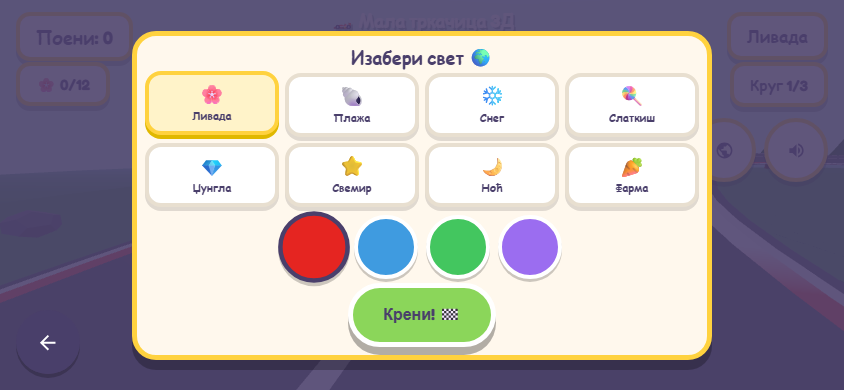
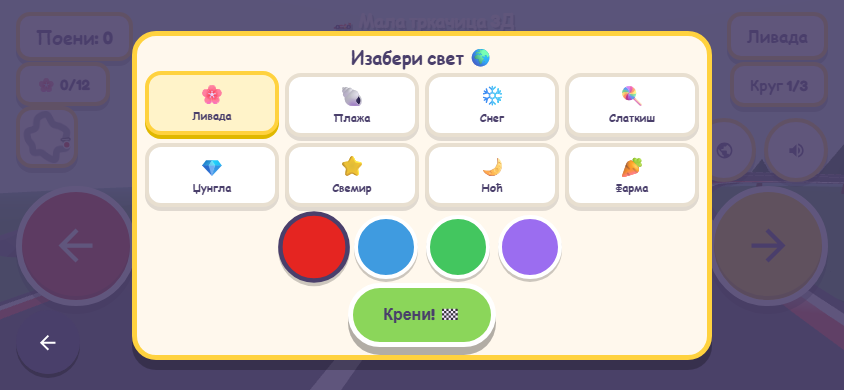
task 249: racing3d chase-cam lag cancel + look-up + HUD (minimap under Poeni, buttons to edges)
Camera position lerp trailed the moving kart by ~speed/4; added a speed/4 feed-forward to the back-distance term so the kart stays close while moving (844x390 dist 15.2 -> ~8.0 at speed 33). Look target moved further ahead (10->11) and higher (1.5->2.8, xcamPull) so it pitches up and shows more road. Minimap moved from top-centre to the top-left column under the score pills; steering buttons pushed to the screen edges. 3 new mutation-negative-tested racing3d_smoke guards (39/39). manifest 2.0.2 -> 2.0.3 for device refresh; offline + docs regenerated; racing3d + parent review shots refreshed.

diff --git a/tools/racing3d_smoke.js b/tools/racing3d_smoke.js
@@ -197,6 +197,26 @@ const sleep = ms => new Promise(r => setTimeout(r, ms));
     check('short landscape (844x390): world + music buttons are the topmost element (not covered by a steering zone)',
         R.world === 'r3d-world-btn' && R.music === 'r3d-music-btn', reach);
 
+    // task 249: the minimap was centred at the top and covered the road right where
+    // the kart drives; it now lives in the top-left column under the score pills. The
+    // steering buttons were centred in each half (barely a quarter-width from the
+    // edge), which read as "too close to the kart"; they are pushed to the edges.
+    // Assert the geometry — a click-driven smoke passes with any of this still wrong.
+    const hud = JSON.parse(await h.evalv(`JSON.stringify((() => {
+        const r = id => { const b = document.getElementById(id).getBoundingClientRect();
+            return { left: b.left, right: b.right, top: b.top, bottom: b.bottom,
+                     cx: (b.left + b.right) / 2, cy: (b.top + b.bottom) / 2 }; };
+        return { w: window.innerWidth, h: window.innerHeight,
+                 map: r('r3d-map'), left: r('r3d-left'), right: r('r3d-right') };
+    })())`));
+    check('short landscape: minimap sits in the top-left (clear of the road view)',
+        hud.map.right < hud.w * 0.33 && hud.map.top > 0 && hud.map.top < 160,
+        JSON.stringify(hud.map) + ' w=' + hud.w);
+    check('short landscape: steering buttons are pushed to the screen edges (off the kart)',
+        hud.left.cx < hud.w * 0.2 && hud.right.cx > hud.w * 0.8 &&
+        hud.left.left >= 0 && hud.right.right <= hud.w && hud.left.cy > hud.map.bottom,
+        JSON.stringify({ left: hud.left, right: hud.right, mapBottom: hud.map.bottom }));
+
     // task 247: on a phone in landscape (short viewport) a fixed-distance chase cam
     // made the kart read as "too far away", so the rig now pulls in with the short
     // dimension (camPull = clamp(innerHeight/700, 0.6, 1)). Read the pull and the
@@ -236,6 +256,25 @@ const sleep = ms => new Promise(r => setTimeout(r, ms));
         if (!driveWait) await sleep(200);
     }
     check('countdown finished -> driving mode', driveWait === true);
+
+    // task 249: the chase cam's position lerp trailed the moving kart by ~speed/4
+    // world units, so the kart only looked close at the instant it slowed (user: "at
+    // the slowest moment it is actually in good view ... aiming to that"). The target
+    // now carries a speed/4 feed-forward that cancels the lag, so the camera keeps the
+    // same distance at speed as at rest. Drive up to speed on a phone viewport and
+    // assert the camera stays close; without the feed-forward the distance ~doubles.
+    await h.c.send('Emulation.setDeviceMetricsOverride', { width: 844, height: 390, deviceScaleFactor: 1, mobile: false });
+    await sleep(200);
+    const camMove = JSON.parse(await h.evalv(`(function(){
+        const r3d = window.__r3d; r3d.haltLoop(true);
+        for (let i = 0; i < 600 && r3d.speed() < 25; i++) r3d.step(1/60);
+        const sp = r3d.speed(); const c = r3d.cameraInfo(); r3d.haltLoop(false);
+        return JSON.stringify({ sp: +sp.toFixed(1), dist: c.dist });
+    })()`));
+    check('chase cam cancels its speed lag (kart stays close once moving at speed)',
+        camMove.sp >= 25 && camMove.dist < 9 && camMove.dist > 3, JSON.stringify(camMove));
+    await h.c.send('Emulation.setDeviceMetricsOverride', { width: 1100, height: 700, deviceScaleFactor: 1, mobile: false });
+    await sleep(200);
 
     // Frame-rate independent by construction. This used to hold the key and
     // `await sleep(N)`, which only works if a frame costs less than the 50ms dt

diff --git a/docs/pages/racing3d.html b/docs/pages/racing3d.html
@@ -45,8 +45,10 @@
         #r3d-world { top: 12px; right: 16px; font-size: 17px; }
         #r3d-round { top: 62px; right: 16px; font-size: 15px; }
         /* --- Race-track mini-map (loop + live running position) --- */
+        /* Sits in the top-left column under the «Поени»/«🌸» pills, NOT centred —
+           centred it covered the road right where the kart drives (task 249). */
         #r3d-map {
-            position: absolute; top: 10vmin; left: 50%; transform: translateX(-50%);
+            position: absolute; top: 112px; left: 16px;
             z-index: 10; pointer-events: none; width: 21vmin; height: 21vmin;
             max-width: 230px; max-height: 230px;
             background: #FFF8ED; border-radius: 16px; border: 4px solid #FFD23F;
@@ -82,8 +84,10 @@
             display: flex; align-items: center; justify-content: center;
             touch-action: none;
         }
-        #r3d-zone-left { left: 0; }
-        #r3d-zone-right { right: 0; }
+        /* Push the steering buttons out toward the screen edges so they do not sit
+           under the kart (task 249); the padding keeps them off the bezel. */
+        #r3d-zone-left { left: 0; justify-content: flex-start; padding-left: 4vmin; }
+        #r3d-zone-right { right: 0; justify-content: flex-end; padding-right: 4vmin; }
         .r3d-zone .r3d-btn {
             width: 120px; height: 120px; border-radius: 50%;
             border: 6px solid #fff; display: flex; align-items: center; justify-content: center;
@@ -201,6 +205,8 @@
             #r3d-kart-row { gap: 8px; margin-bottom: 4px; }
             .r3d-kart-swatch { width: 40px; height: 40px; }
             .r3d-restart-btn { padding: 10px 30px; font-size: 16px; line-height: 1.1; }
+            /* keep the minimap above the (edge-pushed) steering button on a 390h phone */
+            #r3d-map { top: 106px; width: 16vmin; height: 16vmin; }
         }
     </style>
 </head>

diff --git a/game/pages/racing3d.html b/game/pages/racing3d.html
@@ -45,8 +45,10 @@
         #r3d-world { top: 12px; right: 16px; font-size: 17px; }
         #r3d-round { top: 62px; right: 16px; font-size: 15px; }
         /* --- Race-track mini-map (loop + live running position) --- */
+        /* Sits in the top-left column under the «Поени»/«🌸» pills, NOT centred —
+           centred it covered the road right where the kart drives (task 249). */
         #r3d-map {
-            position: absolute; top: 10vmin; left: 50%; transform: translateX(-50%);
+            position: absolute; top: 112px; left: 16px;
             z-index: 10; pointer-events: none; width: 21vmin; height: 21vmin;
             max-width: 230px; max-height: 230px;
             background: #FFF8ED; border-radius: 16px; border: 4px solid #FFD23F;
@@ -82,8 +84,10 @@
             display: flex; align-items: center; justify-content: center;
             touch-action: none;
         }
-        #r3d-zone-left { left: 0; }
-        #r3d-zone-right { right: 0; }
+        /* Push the steering buttons out toward the screen edges so they do not sit
+           under the kart (task 249); the padding keeps them off the bezel. */
+        #r3d-zone-left { left: 0; justify-content: flex-start; padding-left: 4vmin; }
+        #r3d-zone-right { right: 0; justify-content: flex-end; padding-right: 4vmin; }
         .r3d-zone .r3d-btn {
             width: 120px; height: 120px; border-radius: 50%;
             border: 6px solid #fff; display: flex; align-items: center; justify-content: center;
@@ -201,6 +205,8 @@
             #r3d-kart-row { gap: 8px; margin-bottom: 4px; }
             .r3d-kart-swatch { width: 40px; height: 40px; }
             .r3d-restart-btn { padding: 10px 30px; font-size: 16px; line-height: 1.1; }
+            /* keep the minimap above the (edge-pushed) steering button on a 390h phone */
+            #r3d-map { top: 106px; width: 16vmin; height: 16vmin; }
         }
     </style>
 </head>

diff --git a/CONTRIBUTING.md b/CONTRIBUTING.md
@@ -62,7 +62,7 @@ Consequences for contributors:
 
 ## Task lifecycle
 
-- **Task 248 (Racing `racing3d` chase-camera tuning, increment 1 — user: "a bit more closer and the camera a bit more higher looking down, not too much"; pull-in is now steeper than 1:1 below a 700px-tall viewport, `camPull = clamp(1 - 1.1*(1 - innerHeight/700), 0.5, 1)` (844×390: 0.6→0.513), and the vertical scale is decoupled as `camRise = 0.35 + 0.65*camPull` so the camera stays high (height 3.6→4.10) and looks down more, heights ≥700 unchanged; the 247 smoke check relaxed to a range + ordering + `short.target < 0.8×tall.target`; `manifest.json` 2.0.1→2.0.2 so the phone refreshes, `parent_smoke` 44/44, `check_fast` 7/7, `racing3d_phone-landscape` + 4 `parent_*` shots refreshed) is DONE (2026-10-13); **Task 247 (Racing `racing3d` chase camera pulled in on a short landscape viewport — the chase cam was a fixed offset (`-12` behind / `6.0` up / `+10` look-ahead), so a phone in landscape (≈844×390) rendered the kart small/far; now scaled by `camPull = clamp(innerHeight/700, 0.6, 1)` applied to the back distance, up height, min-y clamp and look-ahead/height (steer sway unscaled), heights ≥700 unchanged, a 390-high landscape clamps to 0.6 → target distance 13.4→≈8.0; new `cameraInfo()` hook + a `racing3d_smoke` check reading the camera target distance one frame apart at 844×390 vs 1100×700 asserting pull 0.6/1 and shortTarget < 0.75×tallTarget, mutation-negative-tested) is DONE (2026-10-13); task 246 (Offline delivery — app-version bump `manifest.json` 2.0.0→2.0.1 so installed devices auto-refresh: the SW registers as `sw.js?v=<version>` and caches `petrin-v<version>`, so a bump installs a fresh worker and re-caches on next launch, closing the task-244/245 device-freshness gap; no tool hard-codes the version; `parent_smoke` 44/44 shows `2.0.1`, `sw_update_smoke` green, `check_fast` 7/7, `parent_*` review shots refreshed; also formally closed task 100, the racing visual-style umbrella) is DONE (2026-10-13); task 245 (Racing `racing3d` kart heading skew — `kart.lookAt(p.clone().add(tan))` aimed 1 unit ahead on the centreline while the kart sat at `p + right*lateral`, so the heading skewed toward the road centre by up to ~84° as the car slid and never realigned once released, since the lane offset persists; now aims from the kart's own position, `kart.lookAt(kart.position.clone().add(tan))`; new `kartInfo()` probe hook + a `racing3d_smoke` check that the heading stays road-aligned at every lane offset, mutation-negative-tested) is DONE (2026-10-13); task 244 (Racing `racing3d` follow-up — hover feel: `HOVER.yawMax` 0→0.18 so the whole car leans its nose slightly into the glide (rear-axle pivot, no tail-spin) and straightens on release; colour-coded finish buttons «Следећи свет» green / «Играј поново» yellow / «Изабери свет» blue + green «Крени!»; one-tap start after the scene-rebuild reload via a one-shot `sessionStorage` autostart flag) is DONE (2026-10-13); task 243 (Offline download self-heal — the parent «Преузми за офлајн рад» progress bar froze mid-run because `sw.js` ran `cacheAllAssets`/`checkForUpdates` without `event.waitUntil`, so the browser could reap the worker; now both are wrapped, a `cacheInFlight` guard prevents a duplicate run, and a parent-side stall watchdog re-issues `cacheAll` when no progress arrives for 30 s) is DONE (2026-10-13); task 242 (Racing `racing3d` hovercraft steering — whole car glides sideways along the road, no nose yaw into the turn; new tunable `HOVER` block (`yawMax:0`, `bankMax:0.12`, slow reduced-motion-suppressed hover-float bob); `racing3d_smoke` updated to the new invariants, full WebGL race battery 33/33; byte-identical review shots) is DONE (2026-10-13); task 241 (CI: fix the two Extended/schedule `play_matrix` failures — `animal_counting` portrait back button covered by the counting stage; `rhythm` favicon 404) is DONE (2026-10-13); task 240 (Visual/UX V23 — Final visual QA baseline: regenerate the full screenshot battery, inspect all four viewports and state coverage, update TOC + provenance, review drift, full smoke + accessibility + offline gates, document intentional differences, spec §41) is DONE (2026-10-12); task 239 (Visual/UX V22 — Icon system pass: one coherent icon family, canonical `arrow_back`, no mixing unrelated icon styles in one shell, spec §40) is DONE (2026-10-12); task 238 (Visual/UX V21 — Semantic motion pass: classify every animation and delete the decorative motion that fails the spec §39 tests) is DONE (2026-10-12); task 237 (Visual/UX V20 — Hub vertical rhythm + activity-cluster size, spec §38) is DONE (2026-10-12); task 236 (Visual/UX V19 — Parent visual system: grouped cards, readable labels, progress summaries, expandable details, restrained colour, spec §37/§43) is DONE (2026-10-11); task 235 (Visual/UX V18 — Phonics letter glow + speaker cue + choice object highlight + immediate success feedback, spec §36/§42.15) is DONE (2026-10-11); task 234 (Visual/UX V17 — Shapes play mat + material + selection, spec §35/§42.19) is DONE (2026-10-11); task 233 (Visual/UX V16 — Sequencing gentle story tray, spec §34/§42.18) is DONE (2026-10-11); task 232 (Visual/UX V15 — Sorting material upgrade, spec §33/§42.20) is DONE (2026-10-11); task 231 (Visual/UX V14 — Coloring header + Piano shell geometry, spec §32/§42.6/§42.16) is DONE (2026-10-11); task 230 (Visual/UX V13 — Classroom hierarchy, spec §31/§42.5) is DONE (2026-10-11); task 229 (Visual/UX V12 — Animal Memory card refinement, spec §30/§42.3) is DONE (2026-10-10); task 228 (Visual/UX V11 — counting refinement) is DONE (2026-10-10); task 227 (Visual/UX V10 — Rhythm pads as drums) is DONE (2026-10-10); task 226 (Visual/UX V9 — Maze cozy-garden elevation) is DONE (2026-10-10); task 225 (Visual/UX V8.1 — animal content composition, "V8 Animals") is DONE (2026-10-10); task 224 (Visual/UX V7.1 — tactile component layer + `.ps-back` adoption) is DONE (2026-10-10); task 223 (Visual/UX V6.2 — apply the Petrin Glow to the six attention states) is DONE (2026-10-09); task 222 (Visual/UX V6.1 — Petrin Glow) is DONE (2026-10-09); task 221 (Visual/UX V5.1 — learning-stage grammar) is DONE (2026-10-09); task 220 (Visual/UX V4.1 — Adventure HUD unification) is DONE (2026-10-09); task 219 (Visual/UX V3.2 — 4 short-landscape FAIL fixes, audit at 0 FAIL) is DONE (2026-10-09); task 218 (terminal plan-status line `tools/plan_progress.js`) is DONE (2026-10-09); task 217 (Visual/UX V3.1 — 844×390 short-landscape audit) is DONE (2026-10-09); task 216 (V0–V2) is DONE (2026-10-08).**
+- **Task 249 (Racing `racing3d` camera + HUD polish, increment 2 — user play-test of 248: position "better now", but "the camera needs to look more up … too much focused on the car", "the minimap should be under the «Поени» counter so it is not blocking the view of the road", buttons "too close to the car… more on the side"; (1) the camera-*position* lerp trailed the moving kart by ≈`speed/4` world units so the kart looked close only at the instant it slowed — the target now carries a feed-forward `-12*camPull + speed/4`, dropping the 844×390 camera↔kart distance 15.2→≈8.0 at speed ≈33; (2) look target moved further ahead (10→11) and higher (1.5→2.8, ×camPull) so the camera pitches up and shows more road; (3) `#r3d-map` moved from top-centre to the top-left column under the pills (`top:112px; left:16px`, `16vmin` on short screens); (4) `#r3d-zone-left/right` now `justify-content: flex-start/flex-end` + `padding:4vmin`, pushing the steering buttons to the edges (centre 0.25×→0.09× width); 3 new mutation-negative-tested `racing3d_smoke` guards, 39/39; `manifest.json` 2.0.2→2.0.3 so the phone refreshes; `check_fast` 7/7; 4 `racing3d_*` + 4 `parent_*` shots refreshed) is DONE (2026-10-13); **Task 248 (Racing `racing3d` chase-camera tuning, increment 1 — user: "a bit more closer and the camera a bit more higher looking down, not too much"; pull-in is now steeper than 1:1 below a 700px-tall viewport, `camPull = clamp(1 - 1.1*(1 - innerHeight/700), 0.5, 1)` (844×390: 0.6→0.513), and the vertical scale is decoupled as `camRise = 0.35 + 0.65*camPull` so the camera stays high (height 3.6→4.10) and looks down more, heights ≥700 unchanged; the 247 smoke check relaxed to a range + ordering + `short.target < 0.8×tall.target`; `manifest.json` 2.0.1→2.0.2 so the phone refreshes, `parent_smoke` 44/44, `check_fast` 7/7, `racing3d_phone-landscape` + 4 `parent_*` shots refreshed) is DONE (2026-10-13); **Task 247 (Racing `racing3d` chase camera pulled in on a short landscape viewport — the chase cam was a fixed offset (`-12` behind / `6.0` up / `+10` look-ahead), so a phone in landscape (≈844×390) rendered the kart small/far; now scaled by `camPull = clamp(innerHeight/700, 0.6, 1)` applied to the back distance, up height, min-y clamp and look-ahead/height (steer sway unscaled), heights ≥700 unchanged, a 390-high landscape clamps to 0.6 → target distance 13.4→≈8.0; new `cameraInfo()` hook + a `racing3d_smoke` check reading the camera target distance one frame apart at 844×390 vs 1100×700 asserting pull 0.6/1 and shortTarget < 0.75×tallTarget, mutation-negative-tested) is DONE (2026-10-13); task 246 (Offline delivery — app-version bump `manifest.json` 2.0.0→2.0.1 so installed devices auto-refresh: the SW registers as `sw.js?v=<version>` and caches `petrin-v<version>`, so a bump installs a fresh worker and re-caches on next launch, closing the task-244/245 device-freshness gap; no tool hard-codes the version; `parent_smoke` 44/44 shows `2.0.1`, `sw_update_smoke` green, `check_fast` 7/7, `parent_*` review shots refreshed; also formally closed task 100, the racing visual-style umbrella) is DONE (2026-10-13); task 245 (Racing `racing3d` kart heading skew — `kart.lookAt(p.clone().add(tan))` aimed 1 unit ahead on the centreline while the kart sat at `p + right*lateral`, so the heading skewed toward the road centre by up to ~84° as the car slid and never realigned once released, since the lane offset persists; now aims from the kart's own position, `kart.lookAt(kart.position.clone().add(tan))`; new `kartInfo()` probe hook + a `racing3d_smoke` check that the heading stays road-aligned at every lane offset, mutation-negative-tested) is DONE (2026-10-13); task 244 (Racing `racing3d` follow-up — hover feel: `HOVER.yawMax` 0→0.18 so the whole car leans its nose slightly into the glide (rear-axle pivot, no tail-spin) and straightens on release; colour-coded finish buttons «Следећи свет» green / «Играј поново» yellow / «Изабери свет» blue + green «Крени!»; one-tap start after the scene-rebuild reload via a one-shot `sessionStorage` autostart flag) is DONE (2026-10-13); task 243 (Offline download self-heal — the parent «Преузми за офлајн рад» progress bar froze mid-run because `sw.js` ran `cacheAllAssets`/`checkForUpdates` without `event.waitUntil`, so the browser could reap the worker; now both are wrapped, a `cacheInFlight` guard prevents a duplicate run, and a parent-side stall watchdog re-issues `cacheAll` when no progress arrives for 30 s) is DONE (2026-10-13); task 242 (Racing `racing3d` hovercraft steering — whole car glides sideways along the road, no nose yaw into the turn; new tunable `HOVER` block (`yawMax:0`, `bankMax:0.12`, slow reduced-motion-suppressed hover-float bob); `racing3d_smoke` updated to the new invariants, full WebGL race battery 33/33; byte-identical review shots) is DONE (2026-10-13); task 241 (CI: fix the two Extended/schedule `play_matrix` failures — `animal_counting` portrait back button covered by the counting stage; `rhythm` favicon 404) is DONE (2026-10-13); task 240 (Visual/UX V23 — Final visual QA baseline: regenerate the full screenshot battery, inspect all four viewports and state coverage, update TOC + provenance, review drift, full smoke + accessibility + offline gates, document intentional differences, spec §41) is DONE (2026-10-12); task 239 (Visual/UX V22 — Icon system pass: one coherent icon family, canonical `arrow_back`, no mixing unrelated icon styles in one shell, spec §40) is DONE (2026-10-12); task 238 (Visual/UX V21 — Semantic motion pass: classify every animation and delete the decorative motion that fails the spec §39 tests) is DONE (2026-10-12); task 237 (Visual/UX V20 — Hub vertical rhythm + activity-cluster size, spec §38) is DONE (2026-10-12); task 236 (Visual/UX V19 — Parent visual system: grouped cards, readable labels, progress summaries, expandable details, restrained colour, spec §37/§43) is DONE (2026-10-11); task 235 (Visual/UX V18 — Phonics letter glow + speaker cue + choice object highlight + immediate success feedback, spec §36/§42.15) is DONE (2026-10-11); task 234 (Visual/UX V17 — Shapes play mat + material + selection, spec §35/§42.19) is DONE (2026-10-11); task 233 (Visual/UX V16 — Sequencing gentle story tray, spec §34/§42.18) is DONE (2026-10-11); task 232 (Visual/UX V15 — Sorting material upgrade, spec §33/§42.20) is DONE (2026-10-11); task 231 (Visual/UX V14 — Coloring header + Piano shell geometry, spec §32/§42.6/§42.16) is DONE (2026-10-11); task 230 (Visual/UX V13 — Classroom hierarchy, spec §31/§42.5) is DONE (2026-10-11); task 229 (Visual/UX V12 — Animal Memory card refinement, spec §30/§42.3) is DONE (2026-10-10); task 228 (Visual/UX V11 — counting refinement) is DONE (2026-10-10); task 227 (Visual/UX V10 — Rhythm pads as drums) is DONE (2026-10-10); task 226 (Visual/UX V9 — Maze cozy-garden elevation) is DONE (2026-10-10); task 225 (Visual/UX V8.1 — animal content composition, "V8 Animals") is DONE (2026-10-10); task 224 (Visual/UX V7.1 — tactile component layer + `.ps-back` adoption) is DONE (2026-10-10); task 223 (Visual/UX V6.2 — apply the Petrin Glow to the six attention states) is DONE (2026-10-09); task 222 (Visual/UX V6.1 — Petrin Glow) is DONE (2026-10-09); task 221 (Visual/UX V5.1 — learning-stage grammar) is DONE (2026-10-09); task 220 (Visual/UX V4.1 — Adventure HUD unification) is DONE (2026-10-09); task 219 (Visual/UX V3.2 — 4 short-landscape FAIL fixes, audit at 0 FAIL) is DONE (2026-10-09); task 218 (terminal plan-status line `tools/plan_progress.js`) is DONE (2026-10-09); task 217 (Visual/UX V3.1 — 844×390 short-landscape audit) is DONE (2026-10-09); task 216 (V0–V2) is DONE (2026-10-08).**
 
 - **Before starting any new task, check git/CI status** (`git status --short`, `gh run list`). If anything is failing or the tree is dirty in a way you did not create, report it and propose fixing it first — never start a new task on a red pipeline or a stale tree (task 214).
 - Mark the task **IN PROGRESS** in `PROJECT_TASKS.md` when starting and **DONE** with a dated note (who, what, why) when finished.

diff --git a/HANDOVER_PROMPT.md b/HANDOVER_PROMPT.md
@@ -6,7 +6,7 @@ Purpose
 
 This file summarizes the current workspace, conventions, and project state so the next session can continue without friction. Read this before making changes. It is refreshed at the end of every session.
 
-## Current session — Tasks 242–248 (racing3d hovercraft / hover feel / heading skew / landscape camera pull-in + tuning + offline download self-heal + app-version bump) DONE — 2026-10-13
+## Current session — Tasks 242–249 (racing3d hovercraft / hover feel / heading skew / landscape camera pull-in + tuning + camera lag/look-up + HUD layout + offline download self-heal + app-version bump) DONE — 2026-10-13
 
 **User instruction (2026-10-13):** rework `racing3d` steering so the car hovers — the whole car should glide sideways along the road rather than yawing its nose into the turn (a hovercraft, not a car). Standing approval to commit and push when done.
 
@@ -25,6 +25,8 @@ This file summarizes the current workspace, conventions, and project state so th
 **(8) Task 247 — racing3d chase camera pulled in on a phone in landscape (user-reported):** the user said on a phone in **landscape** "the car is too far away from the user (screen) so we need to have it closer". **Cause:** the chase cam was a *fixed* offset — `-12` behind, `6.0` up, `+10` look-ahead (`game/games/racing3d.mjs:2571-2613`) — so on a short landscape viewport (≈844×390) the kart rendered small/far. **Fix:** scale the whole rig by the short viewport dimension — `const camPull = Math.max(0.6, Math.min(1, window.innerHeight / 700))` — applied to the back distance (`-12*camPull`), the up height (`(6.0+rumble*2.0)*camPull`), the min-y clamp (`5.0*camPull`) and the look-ahead/height (`10*camPull`, `(1.5+speed/MAX_SPEED*0.4)*camPull`); the small steer sway is deliberately **not** scaled. Heights ≥700 keep `camPull = 1`, so the approved framing is unchanged on portrait/tablet/desktop; a 390-high landscape clamps to `0.6` (camera target distance 13.4 → ≈8.0, ~40% closer). New module-scope `lastCamPull`/`lastCamTargetDist` record the live values. **Guard:** new `cameraInfo()` hook on `window.__r3d` (`pull`, live `target` distance, `fov`, `vh`) + a `tools/racing3d_smoke.js` check that reads the camera **target** distance one sim frame apart at 844×390 vs 1100×700 (so both samples share the same track point, making the ratio exactly `camPull`) and asserts `pull === 0.6` / `=== 1` and `shortTarget < 0.75 × tallTarget`; a missing or mis-applied pull gives ratio ≈1 → FAIL. Negative-tested by dropping only `*camPull` from the back distance (pull still computed) from a temp copy (→ `FAIL`, 35/36), hash-restored (`C9DBFDD2…`). **Validation:** `racing3d_smoke` **36/36**; affected smoke (`run_all --since HEAD`) racing3d only; `check_fast` **7/7** after `build_offline.js` (255 entries) → `sync-docs.sh` (257 files); the `racing3d_phone-landscape.png` review shot refreshed (task 247 — the only review viewport whose height < 700), `capture-manifest.json` restored to HEAD (hash-verified). **Framing is subjective → pending user on-device play-test**; tunable lever: the `0.6` floor (lower = closer) and the `700` knee.
 
 **(9) Task 248 — racing3d chase-camera tuning, increment 1 (user follow-up to 247):** the user asked for "a bit more closer and the camera a bit more higher looking down, not too much — small increments". **(a) Closer:** the pull-in is now **steeper than 1:1** below a 700px-tall viewport — `camPull = clamp(1 - 1.1*(1 - innerHeight/700), 0.5, 1)` — so a landscape phone pulls in more while heights ≥700 stay exactly `1`; at 844×390 `camPull` goes 0.6 → **0.513** (camera target distance 7.76 → 7.04). **(b) Higher / looking down:** the vertical scale is **decoupled** from the horizontal pull — `camRise = 0.35 + 0.65*camPull` (was `*camPull`) — so the camera stays high as the rig pulls in; at 844×390 the height goes 3.6 → **4.10**, and the look-ahead shortens with the pull so the down-angle steepens. `camRise` drives both the up-height and the min-y clamp; the small steer sway is still unscaled; heights ≥700 are unchanged. **Guard:** the task-247 `tools/racing3d_smoke.js` check was relaxed from an exact `pull === 0.6` to a range + ordering (`0.4 ≤ pull ≤ 0.7`, `short.pull < tall.pull`) before the invariant `short.target < 0.8 × tall.target` and `camTall.pull === 1` — survives retuning, still fails if the pull is dropped/mis-applied. **Validation:** `racing3d_smoke` **36/36**; `parent_smoke` **44/44** (shows `2.0.2`); `check_fast` **7/7** after `build_offline.js` (255 entries) → `sync-docs.sh` (257 files). **Device test:** `game/manifest.json` **2.0.1 → 2.0.2** so a warm phone installs a fresh worker and re-caches (task-246 mechanism — without it the phone serves the cached old `racing3d.mjs`). Review shots refreshed (task 248): `racing3d_phone-landscape.png` + the 4 `parent_*` shots (parent shows the version); `capture-manifest.json` restored to HEAD (hash-verified). **Framing still pending user on-device play-test; knobs for the next increment: the `1.1` pull slope, the `0.5` floor, and `camRise`'s `0.35/0.65`.**
+
+**(10) Task 249 — racing3d camera lag + look-up + HUD layout (user play-test of 248):** the user reported the car position is "better now" but asked for three more changes: the camera to "look more up … too much focused on the car", the minimap "under the «Поени» counter so it is not blocking the view of the road", and the buttons "too close to the car … more on the side". **(1) Chase-cam speed lag (root cause of "at the slowest moment it is in good view"):** the camera-*position* lerp (`1 - exp(-4*dt)`) trailed the moving kart by ≈`speed/4` world units, so the kart looked close only at the instant it slowed; the target now carries a velocity feed-forward — back distance `-12*camPull + speed/4` (`game/games/racing3d.mjs:~2585`) — cancelling the lag. Measured at 844×390, speed ≈33: the camera↔kart distance drops **15.2 → ≈8.0** (was ~2× the at-rest 8.4). **(2) Look up:** the look target moved further ahead and higher — look-ahead `10*camPull → 11*camPull` and look-height `(1.5 + …)*camPull → (2.8 + …)*camPull` (`racing3d.mjs:~2596`) — so the camera pitches up and shows more road instead of staring down at the kart. **(3) Minimap:** `#r3d-map` moved from top-**centre** (`top:10vmin; left:50%; translateX(-50%)`) — where it covered the road in front of the kart — to the top-left column under the pills (`top:112px; left:16px`) and shrinks to `16vmin` at `max-height:520px` so it clears the edge-pushed steering button. **(4) Steering buttons:** `#r3d-zone-left/right` are now `justify-content: flex-start / flex-end` with `padding: 4vmin`, pushing the buttons to the screen edges (button centre **0.25× → 0.09×** viewport width) so they sit off the kart. **Guards (3, all mutation-negative-tested from temp copies, hash-verified restores):** (a) "chase cam cancels its speed lag" — drive to `speed ≥ 25` on 844×390 then assert the camera↔kart `dist < 9` (without the feed-forward ≈15 → FAIL 36/37, exit 1); (b) "minimap sits in the top-left" — `map.right < 0.33 × innerWidth` (centred minimap 453 > 278 → FAIL); (c) "steering buttons pushed to the edges" — centres `< 0.2 / > 0.8 × width` and the button sits below the minimap (CSS-guard mutation → 2 FAIL, exit 1). **Validation:** `racing3d_smoke` **39/39**; affected (`run_all --since HEAD`: hub + racing3d) green; `check_fast` **7/7** after `build_offline.js` (255 entries) → `sync-docs.sh` (257 files). **Device test:** `game/manifest.json` **2.0.2 → 2.0.3** (task-246 mechanism). Review shots refreshed (task 249): the 4 `racing3d_*` (camera + HUD) and 4 `parent_*` (version); `capture-manifest.json` restored to HEAD (hash-verified). **Framing still pending user on-device play-test — next knobs: the `speed/4` feed-forward, the look-height `2.8`, and the FOV widening (60→74 at speed) which still shrinks the kart ~20 % at speed.**
 
 ## Earlier session — Task 240 (V23 Final visual QA baseline) DONE — 2026-10-12
 

diff --git a/PROJECT_TASKS.md b/PROJECT_TASKS.md
@@ -17,6 +17,8 @@ Important: The AI assistant and any contributor must read this file first when s
 
 ## Active tasks (NEW / IN PROGRESS)
 
+- 249. DONE — Racing (`racing3d`) **chase-camera lag + look-up + HUD layout** (user play-test of 248: car position "better now", but "the camera needs to look more up, it's too much focused on the car", "the minimap should be under the «Поени» counter so it is not blocking the view of the road", and the buttons are "too close to the car", move them "more on the side"). **(1) Chase-cam speed lag:** the camera-*position* lerp (`1 - exp(-4*dt)`) trailed the moving kart by ≈`speed/4` world units, so the kart looked close only at the instant it slowed — literally the user's "at the slowest moment it is in good view". The target now carries a velocity feed-forward, back distance `-12*camPull + speed/4`, cancelling the lag: at 844×390 and speed ≈33 the camera↔kart distance drops **15.2 → ≈8.0** (it was ~2× the at-rest 8.4). **(2) Look up:** the look target moved further ahead and higher — look-ahead `10*camPull → 11*camPull` and look-height `(1.5 + …)*camPull → (2.8 + …)*camPull` — so the camera pitches up and shows more road instead of staring down at the kart. **(3) Minimap:** `#r3d-map` moved from top-**centre** (`top:10vmin; left:50%; translateX(-50%)`) — where it covered the road right in front of the kart — to the top-left column under the pills (`top:112px; left:16px`), and shrinks to `16vmin` at `max-height:520px` so it clears the edge-pushed steering button. **(4) Steering buttons:** `#r3d-zone-left/right` are now `justify-content: flex-start / flex-end` with `padding: 4vmin`, pushing the buttons to the screen edges (button centre **0.25× → 0.09×** viewport width) so they sit off the kart. **Guards (3, all mutation-negative-tested):** (a) "chase cam cancels its speed lag" — drive to `speed ≥ 25` on 844×390 then assert the camera↔kart `dist < 9` (without the feed-forward ≈15 → FAIL 36/37, exit 1); (b) "minimap sits in the top-left" — `map.right < 0.33 × innerWidth` (centred minimap 453 > 278 → FAIL); (c) "steering buttons pushed to the edges" — centres `< 0.2 / > 0.8 × width` and the button sits below the minimap. CSS-guard mutation → 2 FAIL, exit 1; both restores hash-verified. `racing3d_smoke` **39/39**; affected (`run_all --since HEAD`: hub + racing3d) green; `check_fast` **7/7** after `build_offline.js` (255 entries) → `sync-docs.sh` (257 files). **Device test:** `manifest.json` **2.0.2 → 2.0.3** (task-246 mechanism). Review shots refreshed (task 249): the 4 `racing3d_*` (camera + HUD) and 4 `parent_*` (version); `capture-manifest.json` restored to HEAD (hash-verified). Framing still pending user on-device play-test — next knobs: the `speed/4` feed-forward, the look-height `2.8`, and the FOV widening (60→74 at speed) which still shrinks the kart ~20 % at speed. (Started 2026-10-13, DONE 2026-10-13, Ponytail Lazy Dev.)
+
 - 248. DONE — Racing (`racing3d`) **chase-camera tuning, increment 1** (user follow-up to 247: "a bit more closer and the camera a bit more higher looking down, not too much — small increments"). **(a) Closer:** the pull-in is now steeper than 1:1 below a 700px-tall viewport — `camPull = clamp(1 - 1.1*(1 - innerHeight/700), 0.5, 1)` — so a landscape phone pulls in more while heights ≥700 stay exactly `1` (approved framing unchanged). At 844×390 `camPull` goes **0.6 → 0.513** (camera target distance 7.76 → 7.04). **(b) Higher / looking down:** the vertical scale is decoupled from the horizontal pull — `camRise = 0.35 + 0.65*camPull` (was `*camPull`), so the camera stays high as the rig pulls in; at 844×390 the height goes **3.6 → 4.10** and the look-angle steepens (look-ahead also shortens with the pull). `camRise` drives both the up-height and the min-y clamp; the small steer sway is still unscaled; heights ≥700 are byte-identical. **Guard:** the task-247 `racing3d_smoke` check was relaxed from an exact `pull === 0.6` to a range + ordering (`0.4 ≤ pull ≤ 0.7`, `short.pull < tall.pull`) before the invariant `short.target < 0.8 × tall.target` and the `camTall.pull === 1` knee — so it survives retuning while still failing if the pull is dropped/mis-applied. `racing3d_smoke` **36/36**. **Device test:** `manifest.json` **2.0.1 → 2.0.2** so a warm phone installs a fresh worker and re-caches (the task-246 mechanism) — without it the phone would serve the cached `2.0.1` `racing3d.mjs`. `parent_smoke` **44/44** (renders `2.0.2`), `check_fast` **7/7** after `build_offline.js` (255 entries) → `sync-docs.sh` (257 files). Review shots refreshed (task 248): `racing3d_phone-landscape.png` (the only <700 viewport) + the 4 `parent_*` shots (the parent page shows the version); `capture-manifest.json` restored to HEAD (hash-verified). Framing still pending user on-device play-test — knobs to nudge next: the `1.1` pull slope, the `0.5` floor, and `camRise`'s `0.35/0.65`. (Started 2026-10-13, DONE 2026-10-13, Ponytail Lazy Dev.)
 
[1 lines of base64/hex data omitted]

diff --git a/resources/General_reviews/Screenshot_Review/TABLE_OF_CONTENT.md b/resources/General_reviews/Screenshot_Review/TABLE_OF_CONTENT.md
@@ -1,6 +1,6 @@
 # Преглед екрана (UI review)
 
-- Генерисано / Generated: 2026-10-13T12:49:11.513Z
+- Генерисано / Generated: 2026-10-13T14:46:57.405Z
 - Поново направи / Regenerate: `node tools/screenshot.js --review=Screenshot_Review`
 - Освежи само промењену страну / Refresh only a changed page: `node tools/screenshot.js --review=Screenshot_Review --pages=<id> --task=<id>`
 
@@ -64,10 +64,10 @@
 | `ocean_phone-portrait.png` | Океан | `/pages/ocean.html` | 390×844 | портрет | — | 12.10.2026. 11:52:29 | 240 |
 | `ocean_tablet-landscape.png` | Океан | `/pages/ocean.html` | 1180×820 | пејзаж | — | 12.10.2026. 11:52:29 | 240 |
 | `ocean_tablet-portrait.png` | Океан | `/pages/ocean.html` | 820×1180 | портрет | — | 12.10.2026. 11:52:29 | 240 |
-| `parent_phone-landscape.png` | За родитеље | `/pages/parent.html` | 844×390 | пејзаж | — | 13.10.2026. 14:49:11 | 248 |
-| `parent_phone-portrait.png` | За родитеље | `/pages/parent.html` | 390×844 | портрет | — | 13.10.2026. 14:49:11 | 248 |
-| `parent_tablet-landscape.png` | За родитеље | `/pages/parent.html` | 1180×820 | пејзаж | — | 13.10.2026. 14:49:11 | 248 |
-| `parent_tablet-portrait.png` | За родитеље | `/pages/parent.html` | 820×1180 | портрет | — | 13.10.2026. 14:49:11 | 248 |
+| `parent_phone-landscape.png` | За родитеље | `/pages/parent.html` | 844×390 | пејзаж | — | 13.10.2026. 16:46:57 | 249 |
+| `parent_phone-portrait.png` | За родитеље | `/pages/parent.html` | 390×844 | портрет | — | 13.10.2026. 16:46:57 | 249 |
+| `parent_tablet-landscape.png` | За родитеље | `/pages/parent.html` | 1180×820 | пејзаж | — | 13.10.2026. 16:46:57 | 249 |
+| `parent_tablet-portrait.png` | За родитеље | `/pages/parent.html` | 820×1180 | портрет | — | 13.10.2026. 16:46:57 | 249 |
 | `phonics_phone-landscape.png` | Слова и звуци | `/pages/phonics.html` | 844×390 | пејзаж | — | 12.10.2026. 11:52:29 | 240 |
 | `phonics_phone-portrait.png` | Слова и звуци | `/pages/phonics.html` | 390×844 | портрет | — | 12.10.2026. 11:52:29 | 240 |
 | `phonics_tablet-landscape.png` | Слова и звуци | `/pages/phonics.html` | 1180×820 | пејзаж | — | 12.10.2026. 11:52:29 | 240 |
@@ -76,10 +76,10 @@
 | `piano_phone-portrait.png` | Клавир | `/pages/piano.html` | 390×844 | портрет | — | 12.10.2026. 11:52:29 | 240 |
 | `piano_tablet-landscape.png` | Клавир | `/pages/piano.html` | 1180×820 | пејзаж | — | 12.10.2026. 11:52:29 | 240 |
 | `piano_tablet-portrait.png` | Клавир | `/pages/piano.html` | 820×1180 | портрет | — | 12.10.2026. 11:52:29 | 240 |
-| `racing3d_phone-landscape.png` | Мала тркачица 3Д | `/pages/racing3d.html` | 844×390 | пејзаж | — | 13.10.2026. 14:48:37 | 248 |
-| `racing3d_phone-portrait.png` | Мала тркачица 3Д | `/pages/racing3d.html` | 390×844 | портрет | — | 13.10.2026. 13:12:02 | 245 |
-| `racing3d_tablet-landscape.png` | Мала тркачица 3Д | `/pages/racing3d.html` | 1180×820 | пејзаж | — | 13.10.2026. 13:12:02 | 245 |
-| `racing3d_tablet-portrait.png` | Мала тркачица 3Д | `/pages/racing3d.html` | 820×1180 | портрет | — | 13.10.2026. 13:12:02 | 245 |
+| `racing3d_phone-landscape.png` | Мала тркачица 3Д | `/pages/racing3d.html` | 844×390 | пејзаж | — | 13.10.2026. 16:46:57 | 249 |
+| `racing3d_phone-portrait.png` | Мала тркачица 3Д | `/pages/racing3d.html` | 390×844 | портрет | — | 13.10.2026. 16:46:57 | 249 |
+| `racing3d_tablet-landscape.png` | Мала тркачица 3Д | `/pages/racing3d.html` | 1180×820 | пејзаж | — | 13.10.2026. 16:46:57 | 249 |
+| `racing3d_tablet-portrait.png` | Мала тркачица 3Д | `/pages/racing3d.html` | 820×1180 | портрет | — | 13.10.2026. 16:46:57 | 249 |
 | `rhythm_phone-landscape.png` | Ритам | `/pages/rhythm.html` | 844×390 | пејзаж | — | 12.10.2026. 11:52:29 | 240 |
 | `rhythm_phone-portrait.png` | Ритам | `/pages/rhythm.html` | 390×844 | портрет | — | 12.10.2026. 11:52:29 | 240 |
 | `rhythm_tablet-landscape.png` | Ритам | `/pages/rhythm.html` | 1180×820 | пејзаж | — | 12.10.2026. 11:52:29 | 240 |

diff --git a/README.md b/README.md
@@ -6,6 +6,8 @@
 
 ## Current status (2026-10-13)
 
+- **Task 249 DONE (2026-10-13):** Racing (`racing3d`) **chase-camera lag + look-up + HUD layout** (user play-test of 248: position "better now", but "the camera needs to look more up — too much focused on the car", "the minimap should be under the «Поени» counter so it is not blocking the view of the road", and the buttons are "too close to the car"). **(1) Speed lag:** the camera-*position* lerp trailed the moving kart by ≈`speed/4` world units, so the kart looked close only at the instant it slowed — the target now carries a feed-forward `-12*camPull + speed/4`, dropping the 844×390 camera↔kart distance **15.2 → ≈8.0** at speed ≈33. **(2) Look up:** look target further ahead and higher (`10→11` ahead, `1.5→2.8` high, ×camPull) so it pitches up and shows more road. **(3) Minimap** moved from top-**centre** to the top-left column under the pills (`top:112px; left:16px`, shrunk to `16vmin` on short screens). **(4) Steering buttons** pushed to the screen edges (`justify-content: flex-start/flex-end` + `padding: 4vmin`; centre 0.25× → 0.09× width). 3 new mutation-negative-tested `racing3d_smoke` geometry/physics guards; **39/39**. `manifest.json` **2.0.2 → 2.0.3** so the phone refreshes; `check_fast` 7/7 after `build_offline`→`sync-docs`; 4 `racing3d_*` + 4 `parent_*` review shots refreshed, `capture-manifest.json` restored to HEAD. Framing pending user play-test. (Ponytail Lazy Dev)
+
 - **Task 248 DONE (2026-10-13):** Racing (`racing3d`) **chase-camera tuning, increment 1** (user: "a bit more closer and the camera a bit more higher looking down, not too much"). Pull-in is now steeper than 1:1 below a 700px-tall viewport — `camPull = clamp(1 - 1.1*(1 - innerHeight/700), 0.5, 1)` (844×390: 0.6 → 0.513) — and the vertical scale is decoupled, `camRise = 0.35 + 0.65*camPull`, so the camera stays high (844×390 height 3.6 → 4.10) and looks down more; heights ≥700 are unchanged. The 247 smoke check was relaxed to a range + ordering + `short.target < 0.8 × tall.target` so it survives retuning; `racing3d_smoke` 36/36. `manifest.json` **2.0.1 → 2.0.2** so the phone refreshes (task-246 mechanism); `parent_smoke` 44/44 (shows 2.0.2), `check_fast` 7/7 after `build_offline`→`sync-docs`; `racing3d_phone-landscape.png` + 4 `parent_*` review shots refreshed, `capture-manifest.json` restored to HEAD. Framing pending user play-test. (Ponytail Lazy Dev)
 
 - **Task 247 DONE (2026-10-13):** Racing (`racing3d`) **chase camera pulled in on a phone in landscape** (user: "the car is too far away from the user (screen) so we need to have it closer"). The chase cam was a fixed offset (`-12` behind / `6.0` up / `+10` look-ahead), so on a short landscape viewport (≈844×390) the kart read as small and far. Fix: scale the rig with the short viewport dimension — `camPull = clamp(innerHeight/700, 0.6, 1)` applied to the back distance, up height, min-y clamp and look-ahead/height (steer sway deliberately unscaled); heights ≥700 keep `camPull = 1` (approved framing unchanged), a 390-high landscape clamps to `0.6` (target distance 13.4 → ≈8.0, ~40% closer). Guard: new `cameraInfo()` hook + `racing3d_smoke` check reading the camera target distance one frame apart at 844×390 vs 1100×700 and asserting `pull` 0.6/1 and `shortTarget < 0.75 × tallTarget`; mutation-negative-tested (dropping only the applied pull → FAIL 35/36), hash-restored. `racing3d_smoke` 36/36; `check_fast` 7/7 after `build_offline`→`sync-docs`; the `racing3d_phone-landscape.png` review shot refreshed, `capture-manifest.json` restored to HEAD. Framing pending user on-device play-test. (Ponytail Lazy Dev)
